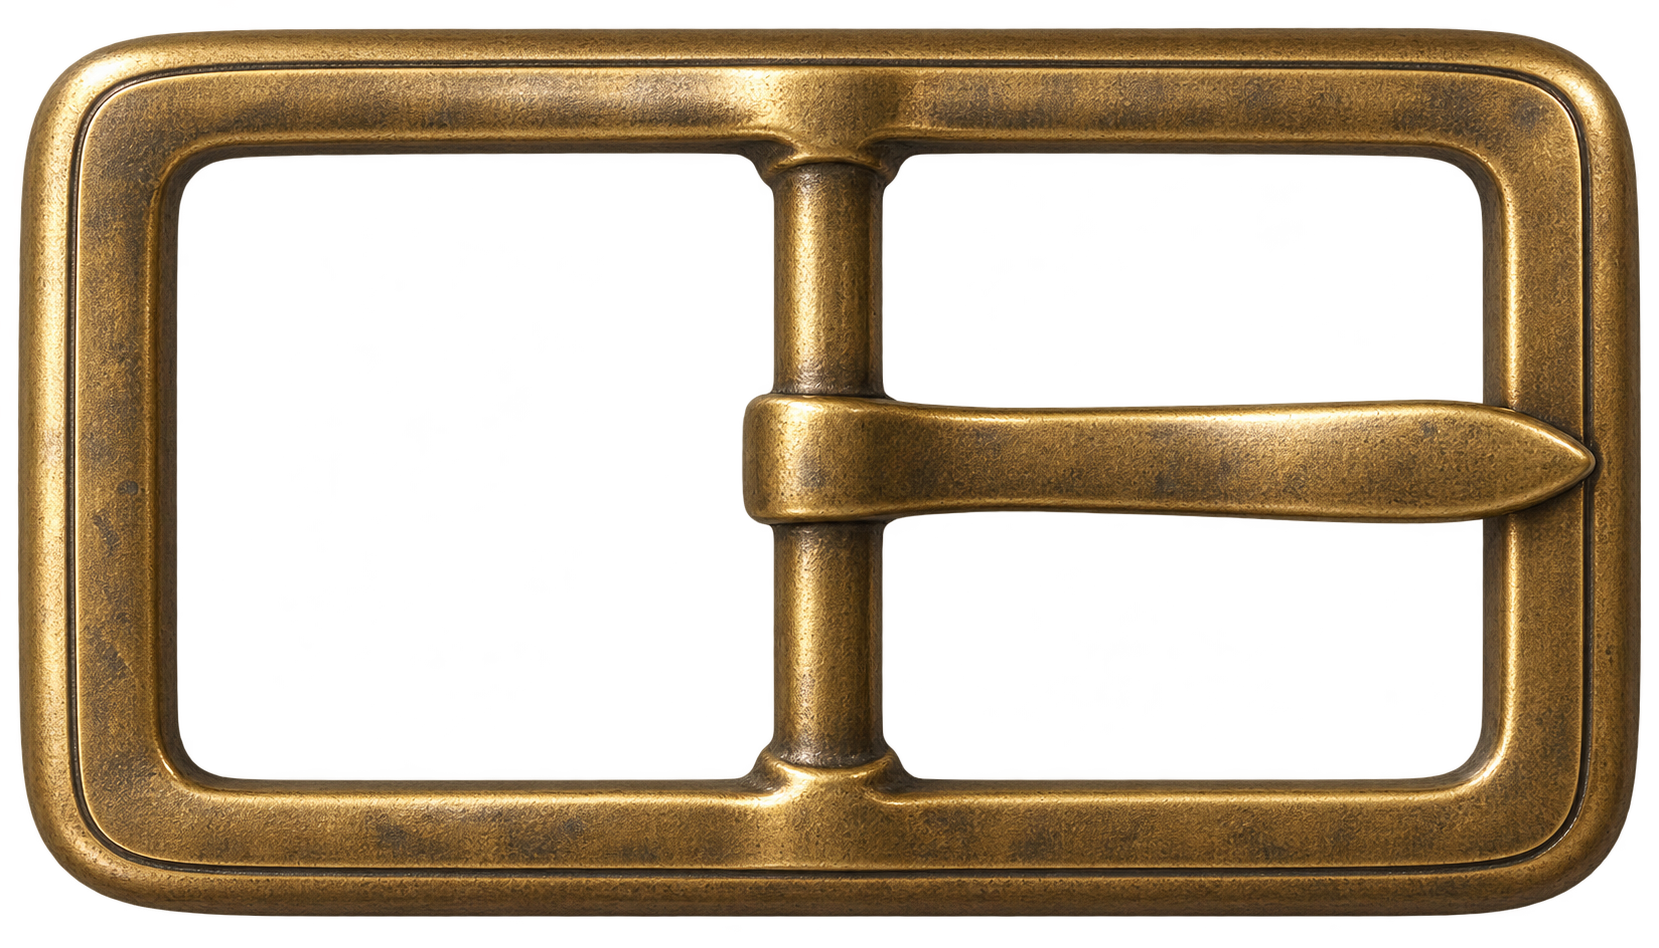
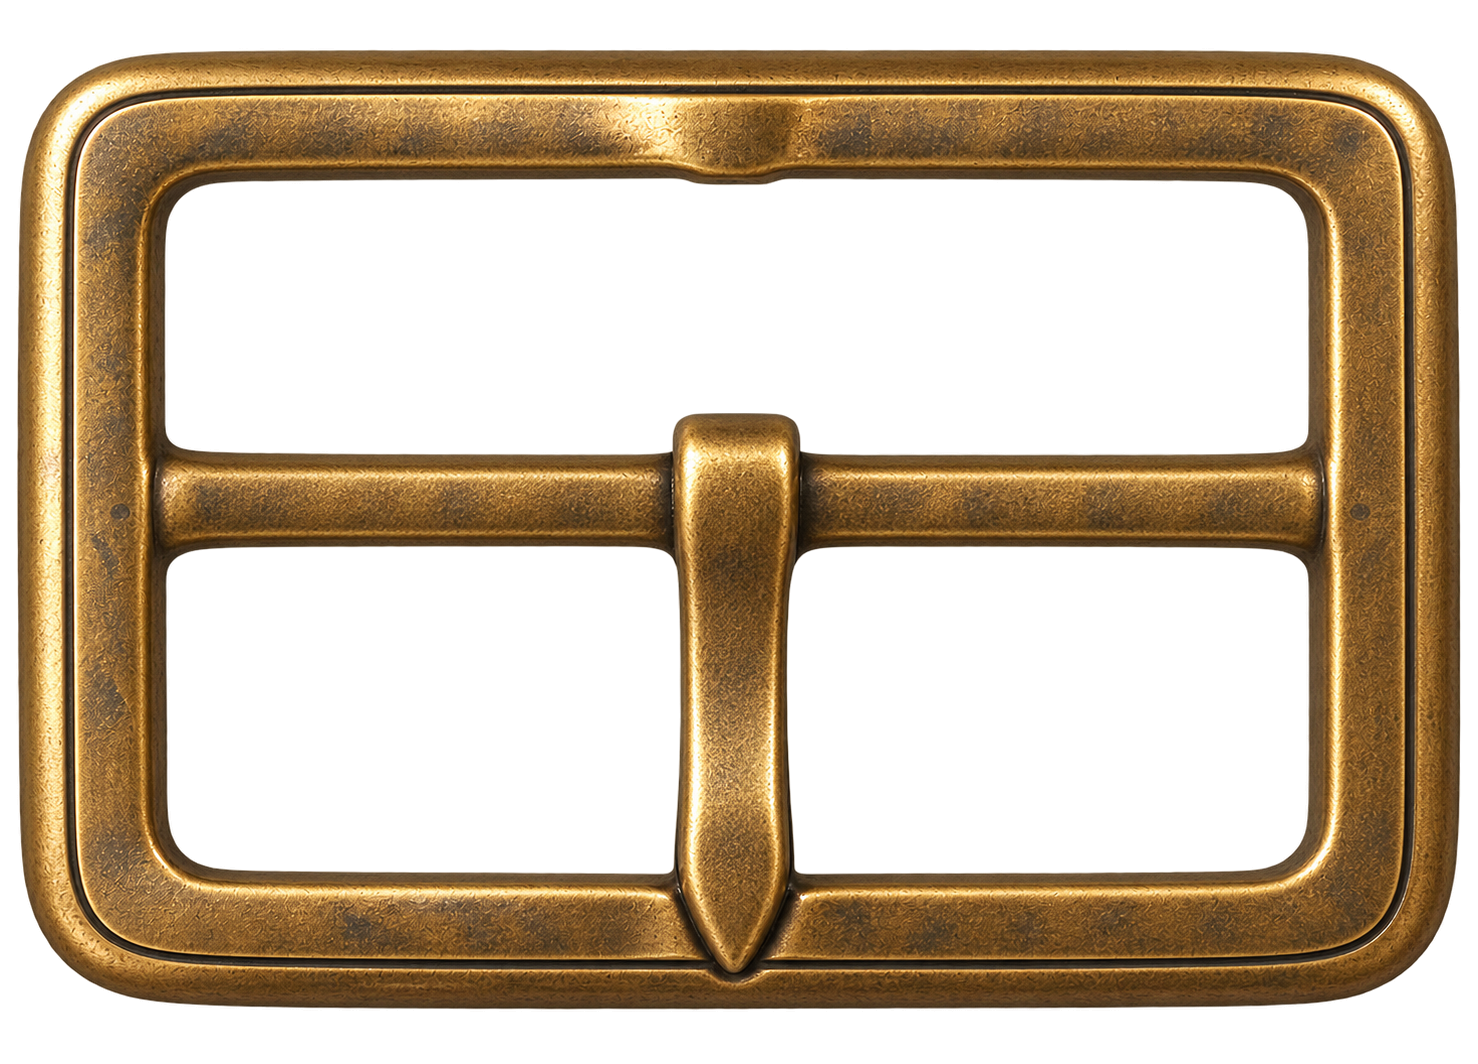
35 Highland: dikey kayışa uygun yeni pirinç toka (GPT v2, orta çubuk yatay, dil aşağı)
- GPT_PROMPTS W2.10 v2 prompt'u; toka alfa 1–4 kalıntısı temizlendi
- tema yeniden üretildi (buckle-320, kutu ölçüsü kendi oranından); tema testi + g180 geçti, açılış yerelde denendi

diff --git a/platform/themes/highland-tartan-thistle/parts.css b/platform/themes/highland-tartan-thistle/parts.css
@@ -12,7 +12,7 @@
 .strap{background:url(img/strap-182.webp) 0 0/100% 100% no-repeat}
 .buckle{background:url(img/buckle-320.webp) 0 0/100% 100% no-repeat}
 .satchel>.strap{left:43.75%;top:-1%;width:12.5%;height:90.63%}
-.strap>.buckle{left:-30%;top:51.68%;width:160%;height:11.3%}
+.strap>.buckle{left:-30%;top:50.45%;width:160%;height:13.75%}
 .sprig{display:block;opacity:0;background:url(img/sprig-420.webp) 50% 100%/contain no-repeat}
 .band-sprig{display:block;aspect-ratio:1878/357;background:url(img/divider-800.webp) 50% 50%/100% 100% no-repeat}
 .thistle{display:block;background:url(img/thistle-400.webp) 50% 50%/contain no-repeat}

diff --git a/collections/35_Highland_Tartan_Thistle/assets/gpt/GPT_PROMPTS.md b/collections/35_Highland_Tartan_Thistle/assets/gpt/GPT_PROMPTS.md
@@ -137,13 +137,16 @@ A single straight vertical leather strap, seen straight from the front, on a ful
 Kontrol: tek dikey kayış; iki kenarda krem dikiş; alt ucu yuvarlak; toka yok; gerçek alfa.
 Kullanım: alfa kutusuna kırpılır → `strap-200` = `.strap` (zarfın üst kenarından cebe iner); açılışta tokadan yukarı kayıp çıkar.
 
-#### W2.10 Pirinç toka
-**Kaydet:** `collections/35_Highland_Tartan_Thistle/assets/gpt/parts/buckle.png` · 560×320 · **Şeffaf zemin**
+#### W2.10 Pirinç toka (v2, 2026-10-23: dikey kayış için)
+**Kaydet:** `collections/35_Highland_Tartan_Thistle/assets/gpt/parts/buckle.png` · 560×400 · **Şeffaf zemin**
+
+Neden v2: ilk toka yatay kayış için çizildi (orta çubuk dik, dil yana bakıyor); bizim kayışımız dikey. Tema denetimi (2026-10-23)
+ortha çubuğun kayışa dik (yatay), dilin aşağı bakması gerektiğini buldu.
 
 ```
-A single antique brass strap buckle, seen straight from the front, on a fully transparent background, filling the image edge to edge (about 1.75:1): a rectangular frame with softly rounded corners and a centre bar, with its pointed prong lying flat across the bar, in warm antique brass (#A88437) with gentle highlights and a little patina, finely engraved with a simple border line. The openings inside the frame are fully transparent (the strap shows through them). Soft daylight from the top-left. No strap, no shadow outside the buckle. No text, letters, numbers, crests or symbols. True transparent background PNG (real alpha channel).
+A single antique brass strap buckle made for a VERTICAL strap, seen straight from the front, on a fully transparent background, filling the image edge to edge (about 1.4:1, wider than tall): a rectangular frame with softly rounded corners whose long sides run horizontally; a straight centre bar running HORIZONTALLY across the middle of the frame from its left side to its right side; a pointed prong hinged on the centre bar, lying flat and pointing STRAIGHT DOWN, at a right angle to the bar, its tip resting on the bottom side of the frame. Warm antique brass (#A88437) with gentle highlights and a little patina, finely engraved with a simple border line. The two openings inside the frame (above and below the centre bar) are fully transparent (the strap shows through them). Soft daylight from the top-left. No strap, no shadow outside the buckle. No text, letters, numbers, crests or symbols. True transparent background PNG (real alpha channel).
 ```
-Kontrol: tek toka; çerçeve içi şeffaf; dil ortadaki çubuğun üstünde; gerçek alfa.
+Kontrol: tek toka; geniş kenarlar yatay; orta çubuk yatay; dil aşağı bakıyor; çerçeve içi şeffaf; gerçek alfa.
 Kullanım: alfa kutusuna kırpılır → `buckle-320` = `.buckle`; açılışta çerçeve alt çubuğu üstünde öne devrilir, sonra kayışla
 birlikte kayar.
 
